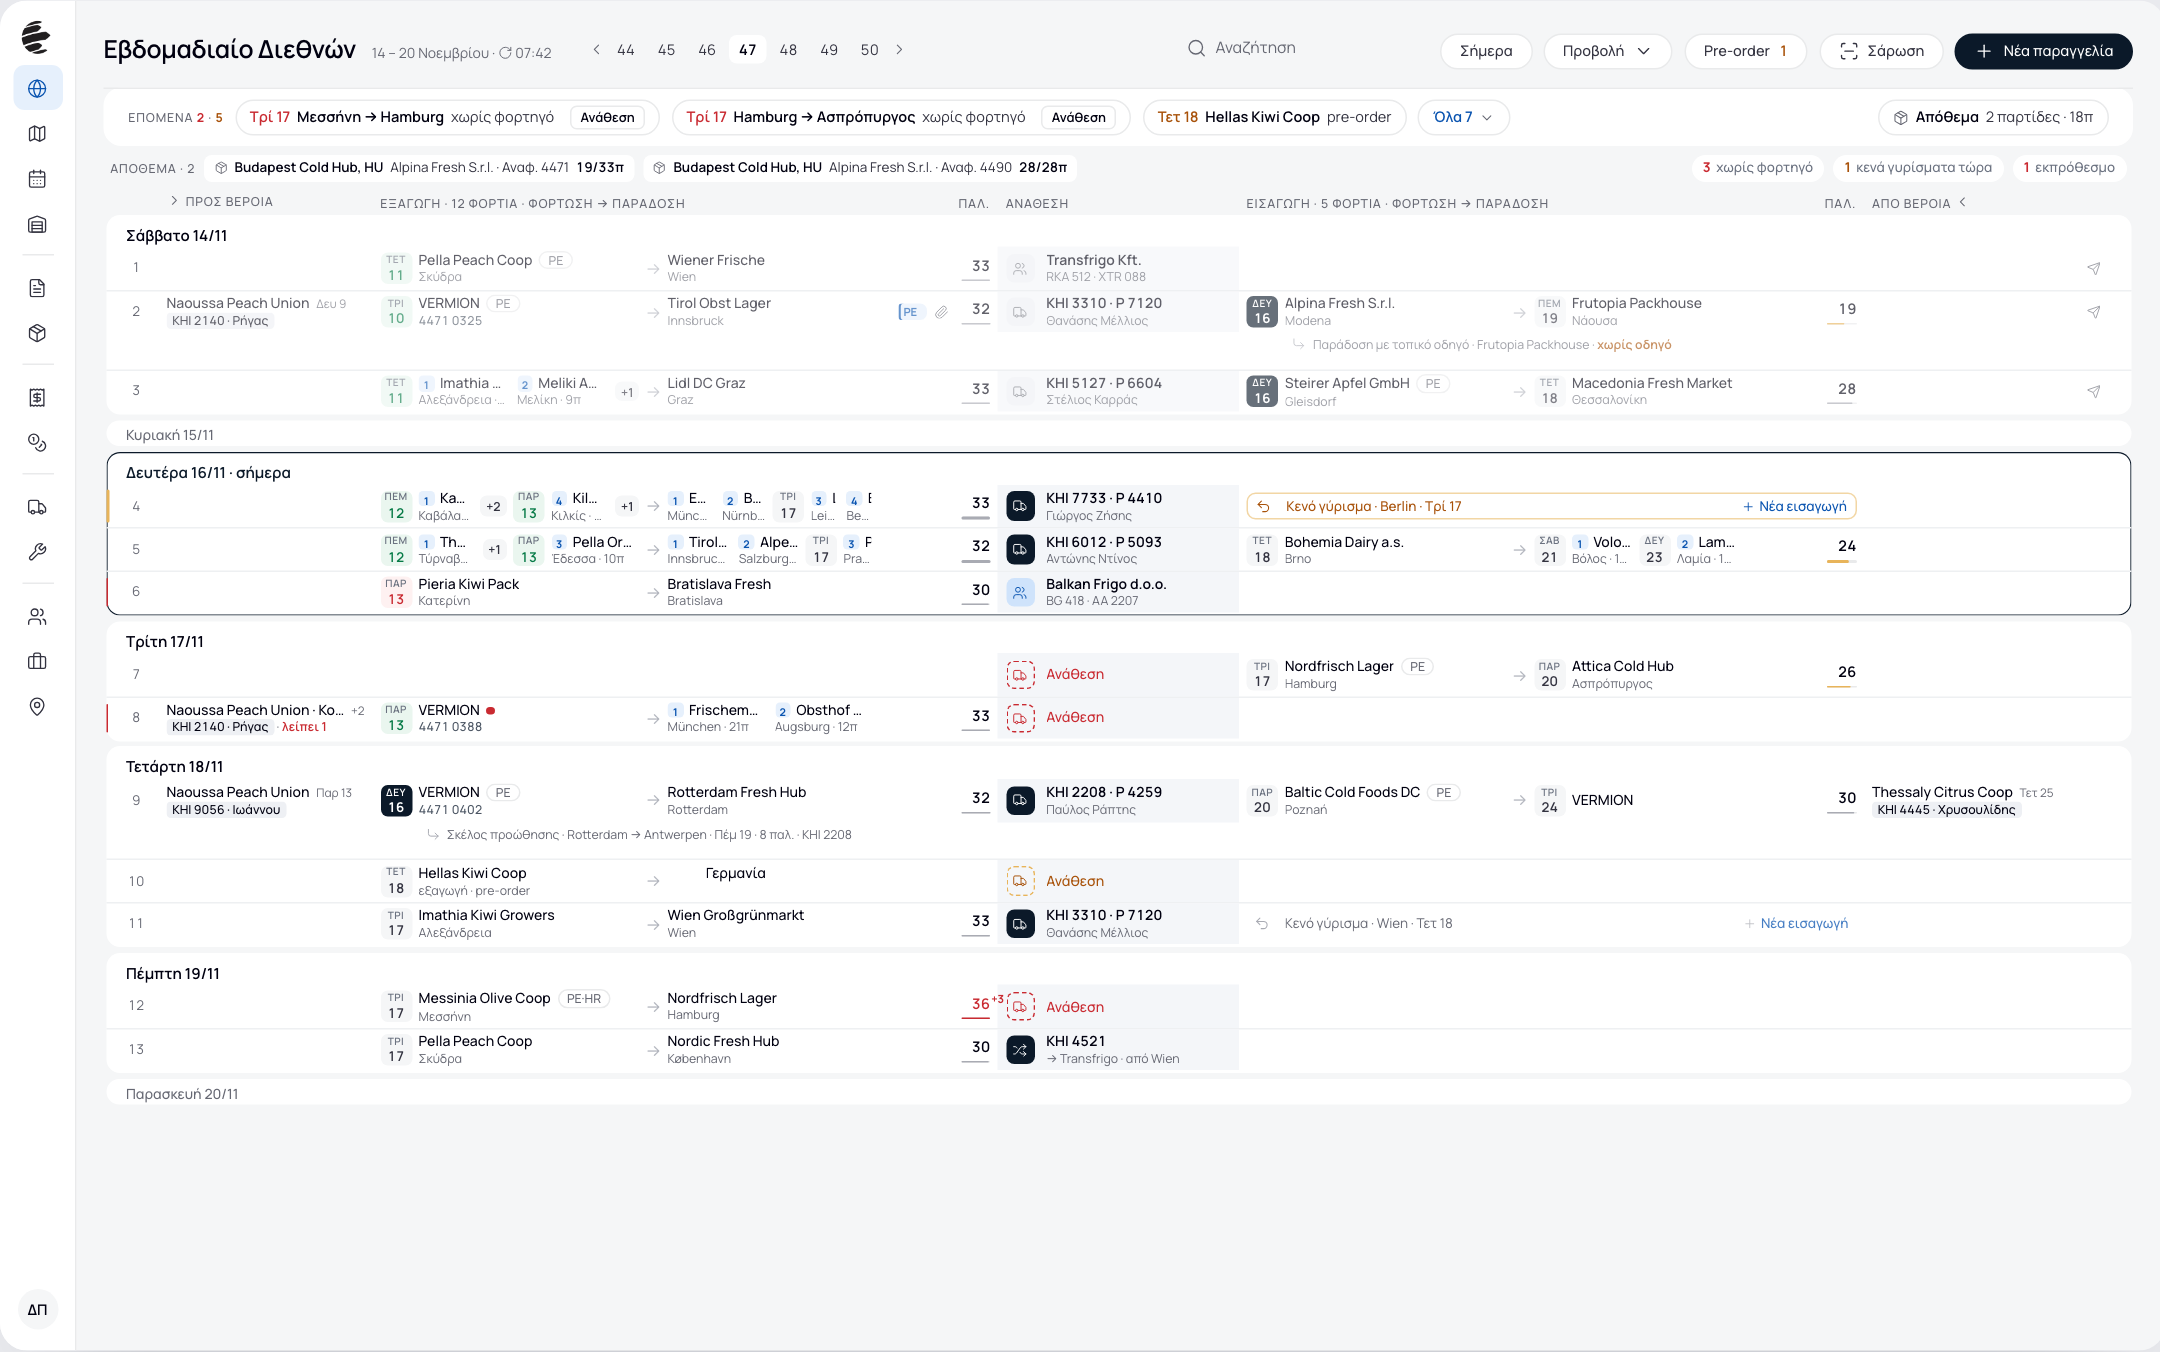
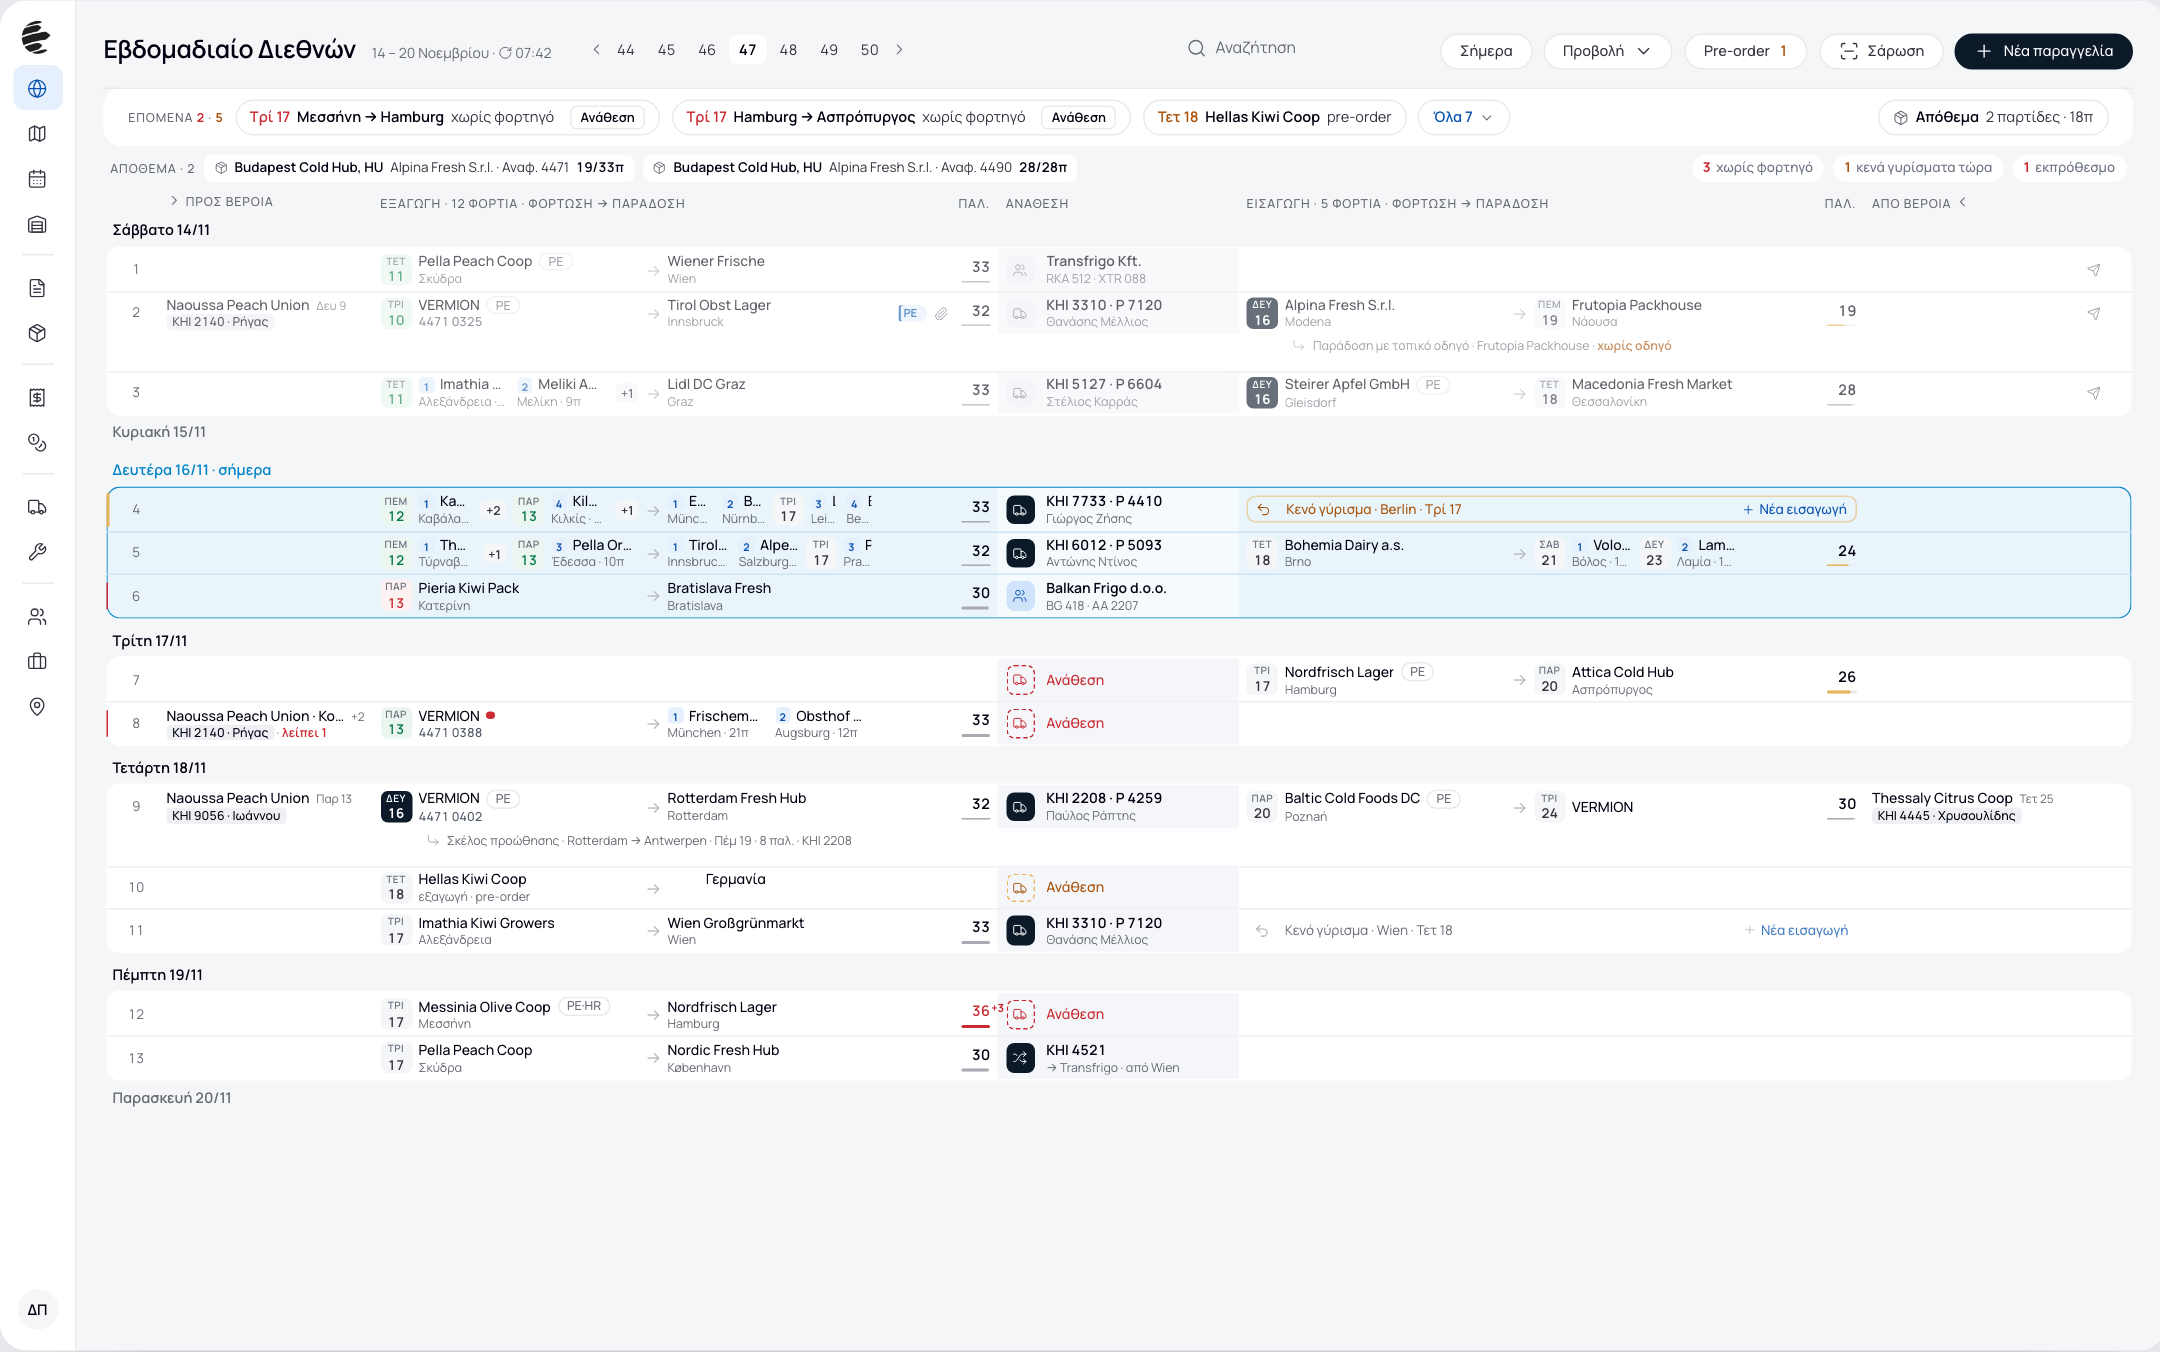
docs(redesign): the day's name sits outside the white card; today is a light blue card with a blue outline and blue day name, as on the live weekly board (owner 15/11)

diff --git a/docs/design/redesign-2026-11/index.html b/docs/design/redesign-2026-11/index.html
@@ -574,7 +574,9 @@ table.spec td b{color:var(--ink);font-weight:600}
 .w9h em{font-style:normal;color:var(--red)}.w9h i{font-style:normal;color:var(--amber)}
 .w9as.p .w9ic{background:#CFE3FB}#f5 .day.past .w9row>*:not(.w9no):not(.n){opacity:.75}
 #f5 .day.today{box-shadow:inset 0 0 0 1px var(--primary)}#f5 .day.today>h3{color:var(--primary)}#f5 .lf.t{background:var(--primary)}
-#f5 .dout .day{background:none;box-shadow:none;padding:0;margin-top:10px}#f5 .dout .day>h3{padding:0 6px 5px;font-size:13px}#f5 .dout .w9dc{background:#fff;border-radius:12px;padding:2px 0}#f5 .dout .day.today{box-shadow:none}#f5 .dout .day.today .w9dc{box-shadow:inset 0 0 0 1px var(--primary)}#f5 .dout .day.none .w9dc{display:none}#f5 .dout .day.none{margin-top:6px}
+#f5 .dout .day{background:none;box-shadow:none;padding:0;margin-top:10px}#f5 .dout .day>h3{padding:0 6px 5px;font-size:13px}#f5 .dout .w9dc{background:#fff;border-radius:12px;padding:2px 0}#f5 .dout .day.today{box-shadow:none}#f5 .dout .day>h3{font-weight:600}
+/* today as on the live weekly board (owner 15/11): light blue card, blue outline, blue day name */
+#f5 .dout .day.today .w9dc{background:#E9F4FB;box-shadow:inset 0 0 0 1px #0284C7}#f5 .dout .day.today>h3{color:#0284C7}#f5.v2 .dout .day.today .w9as{background:rgba(255,255,255,.55)}#f5 .dout .day.today .w9row+.w9row:not(.sub){border-top-color:#CFE4F2}#f5 .dout .day.none .w9dc{display:none}#f5 .dout .day.none{margin-top:6px}
 #f5 .day.past .w9row>*:not(.w9no):not(.n){opacity:.62}#f5 .day.past .w9ic{background:#EEF0F4;color:#7C7E88}
 @media (prefers-reduced-motion:reduce){*,*::before,*::after{animation-duration:.01ms!important;animation-iteration-count:1!important;transition-duration:.01ms!important;transition-delay:0ms!important}
   .oc,.toast{transform:none}}
@@ -1192,8 +1194,8 @@ const lfMany=a=>a.length>1?`<div class="lns">${a.map(x=>lfLn(x[1],'',x[0],x[2],x
  const head=()=>`<div class="w9h lbl" style="grid-template-columns:${G}">${[OPEN?'':`<a class="w9vh" title="Άνοιγμα: Προς Βέροια · Από Βέροια">${ic('panel-left-open')}</a>`,...(OPEN?[`<a class="w9vh" title="Κλείσιμο">${ic('chevron-right')}Προς Βέροια</a>`]:[]),`Εξαγωγή · ${CNT.ex} φορτία · φόρτωση → παράδοση`,'Παλ.','Ανάθεση',`Εισαγωγή · ${CNT.im} φορτία · φόρτωση → παράδοση`,'Παλ.',...(OPEN?[`<a class="w9vh" title="Κλείσιμο">Από Βέροια${ic('chevron-left')}</a>`]:[]),''].map(c=>`<span ${c==='Παλ.'?'style="text-align:right"':''}>${c}</span>`).join('')}</div>`;
  const bh=$('f5').querySelector('.bh'),old=bh.nextElementSibling,box=document.createElement('div');
  box.style.cssText='flex:1;min-height:0;overflow:hidden;padding:0 2px';
- /* example for the owner (15/11): the day's name outside the white card; off unless window.WK_ALT.dayOut is set */
- if(window.WK_ALT&&window.WK_ALT.dayOut)box.classList.add('dout');
+ /* the day's name sits outside the white card (owner 15/11) */
+ box.classList.add('dout');
  const st=document.createElement('div');st.className='w9st';
  const STOCK=window.WK_STOCK||[['Budapest Cold Hub, HU','Alpina Fresh S.r.l.','Αναφ. 4471','19/33π'],['Budapest Cold Hub, HU','Alpina Fresh S.r.l.','Αναφ. 4490','28/28π']];
  const strip=()=>`<span class="lbl">Απόθεμα · ${STOCK.length}</span>${STOCK.map(x=>`<span class="w9lot">${ic('package')}<b>${x[0]}</b>${x[1]} · ${x[2]} <b class="num">${x[3]}</b></span>`).join('')}<span style="flex:1"></span>${CNT.need?`<a class="w9f r"><b>${CNT.need}</b>χωρίς φορτηγό</a>`:''}${CNT.gap?`<a class="w9f a"><b>${CNT.gap}</b>κενά γυρίσματα τώρα</a>`:''}${CNT.late?`<a class="w9f r"><b>${CNT.late}</b>εκπρόθεσμο</a>`:''}`;

diff --git a/docs/design/redesign-2026-11/parity/README.md b/docs/design/redesign-2026-11/parity/README.md
@@ -211,3 +211,5 @@
 **Ανεξάρτητος κριτής (15/11, νύχτα): 6,5/10 το νέο, 5/10 το σημερινό**, και συμφωνεί ότι είναι καθαρότερο αντίγραφο. Οι προτάσεις του ζωγραφίστηκαν ως παράδειγμα πίσω από διακόπτη `window.WK_ALT.v4`, κλειστό μέχρι να αποφασίσει ο owner: πρόοδος παράδοσης στο τετράγωνο κάθε στάσης (γεμάτο = παραδόθηκε· στο παράδειγμα «παραδόθηκε» θεωρείται κάθε στάση πριν από σήμερα)· σύνολα στον τίτλο κάθε ημέρας· μία ράγα αριστερά για ό,τι θέλει ενέργεια (κόκκινη εκπρόθεσμο, κεχριμπαρί τώρα) και κόκκινη κουκκίδα στο «VERMION» όταν λείπει εθνικό φορτηγό· «τώρα / αύριο / σε Ν ημέρες» στο κενό γύρισμα· σταθερό πλάτος φόρτωσης 230px ώστε οι παραδόσεις να χωρούν έως τέσσερις στάσεις· κεχριμπαρένια μπάρα παλετών κάτω από 80%. Τα σύνολα ανά ημέρα αντιβαίνουν σε απόφαση του owner της ίδιας ημέρας (μετρήσεις ημέρας εκτός)· μπήκαν μόνο για να τα δει.
 
 **Επιλογή owner από τις προτάσεις του ανεξάρτητου κριτή (15/11, νύχτα): τρεις κρατήθηκαν, ο διακόπτης αφαιρέθηκε.** (1) **Μία ράγα αριστερά** σε κάθε γραμμή που θέλει ενέργεια: κόκκινη για εκπρόθεσμη φόρτωση ή εθνικό σκέλος χωρίς φορτηγό (με κόκκινη κουκκίδα δίπλα στο «VERMION», στη θέση του «!»), κεχριμπαρί για κενό γύρισμα που θέλει ενέργεια τώρα. (2) **Περισσότερος χώρος στις παραδόσεις:** η φόρτωση έχει σταθερό πλάτος 230px και οι παραδόσεις παίρνουν το υπόλοιπο, έως τέσσερις στάσεις. (3) **Μπάρα παλετών με νόημα:** κεχριμπαρί κάτω από 80% γεμάτο, κόκκινη πάνω από 33. Δεν κρατήθηκαν: πρόοδος παράδοσης, σύνολα ανά ημέρα, «σε Ν ημέρες» στο κενό γύρισμα.
+
+**Αποφάσεις owner (15/11, νύχτα).** Το **όνομα της ημέρας βγαίνει έξω από το λευκό πλαίσιο**, πάνω στο γκρι φόντο (δική του ιδέα)· το πλαίσιο έχει μόνο φορτία. Το **«σήμερα» γίνεται όπως στο σημερινό Εβδομαδιαίο**: γαλάζιο πλαίσιο (#E9F4FB) με μπλε περίγραμμα και μπλε όνομα ημέρας (#0284C7). Το φύλλο ημέρας του «σήμερα» μέσα στις άλλες ημέρες μένει σκούρο ναυτικό.
